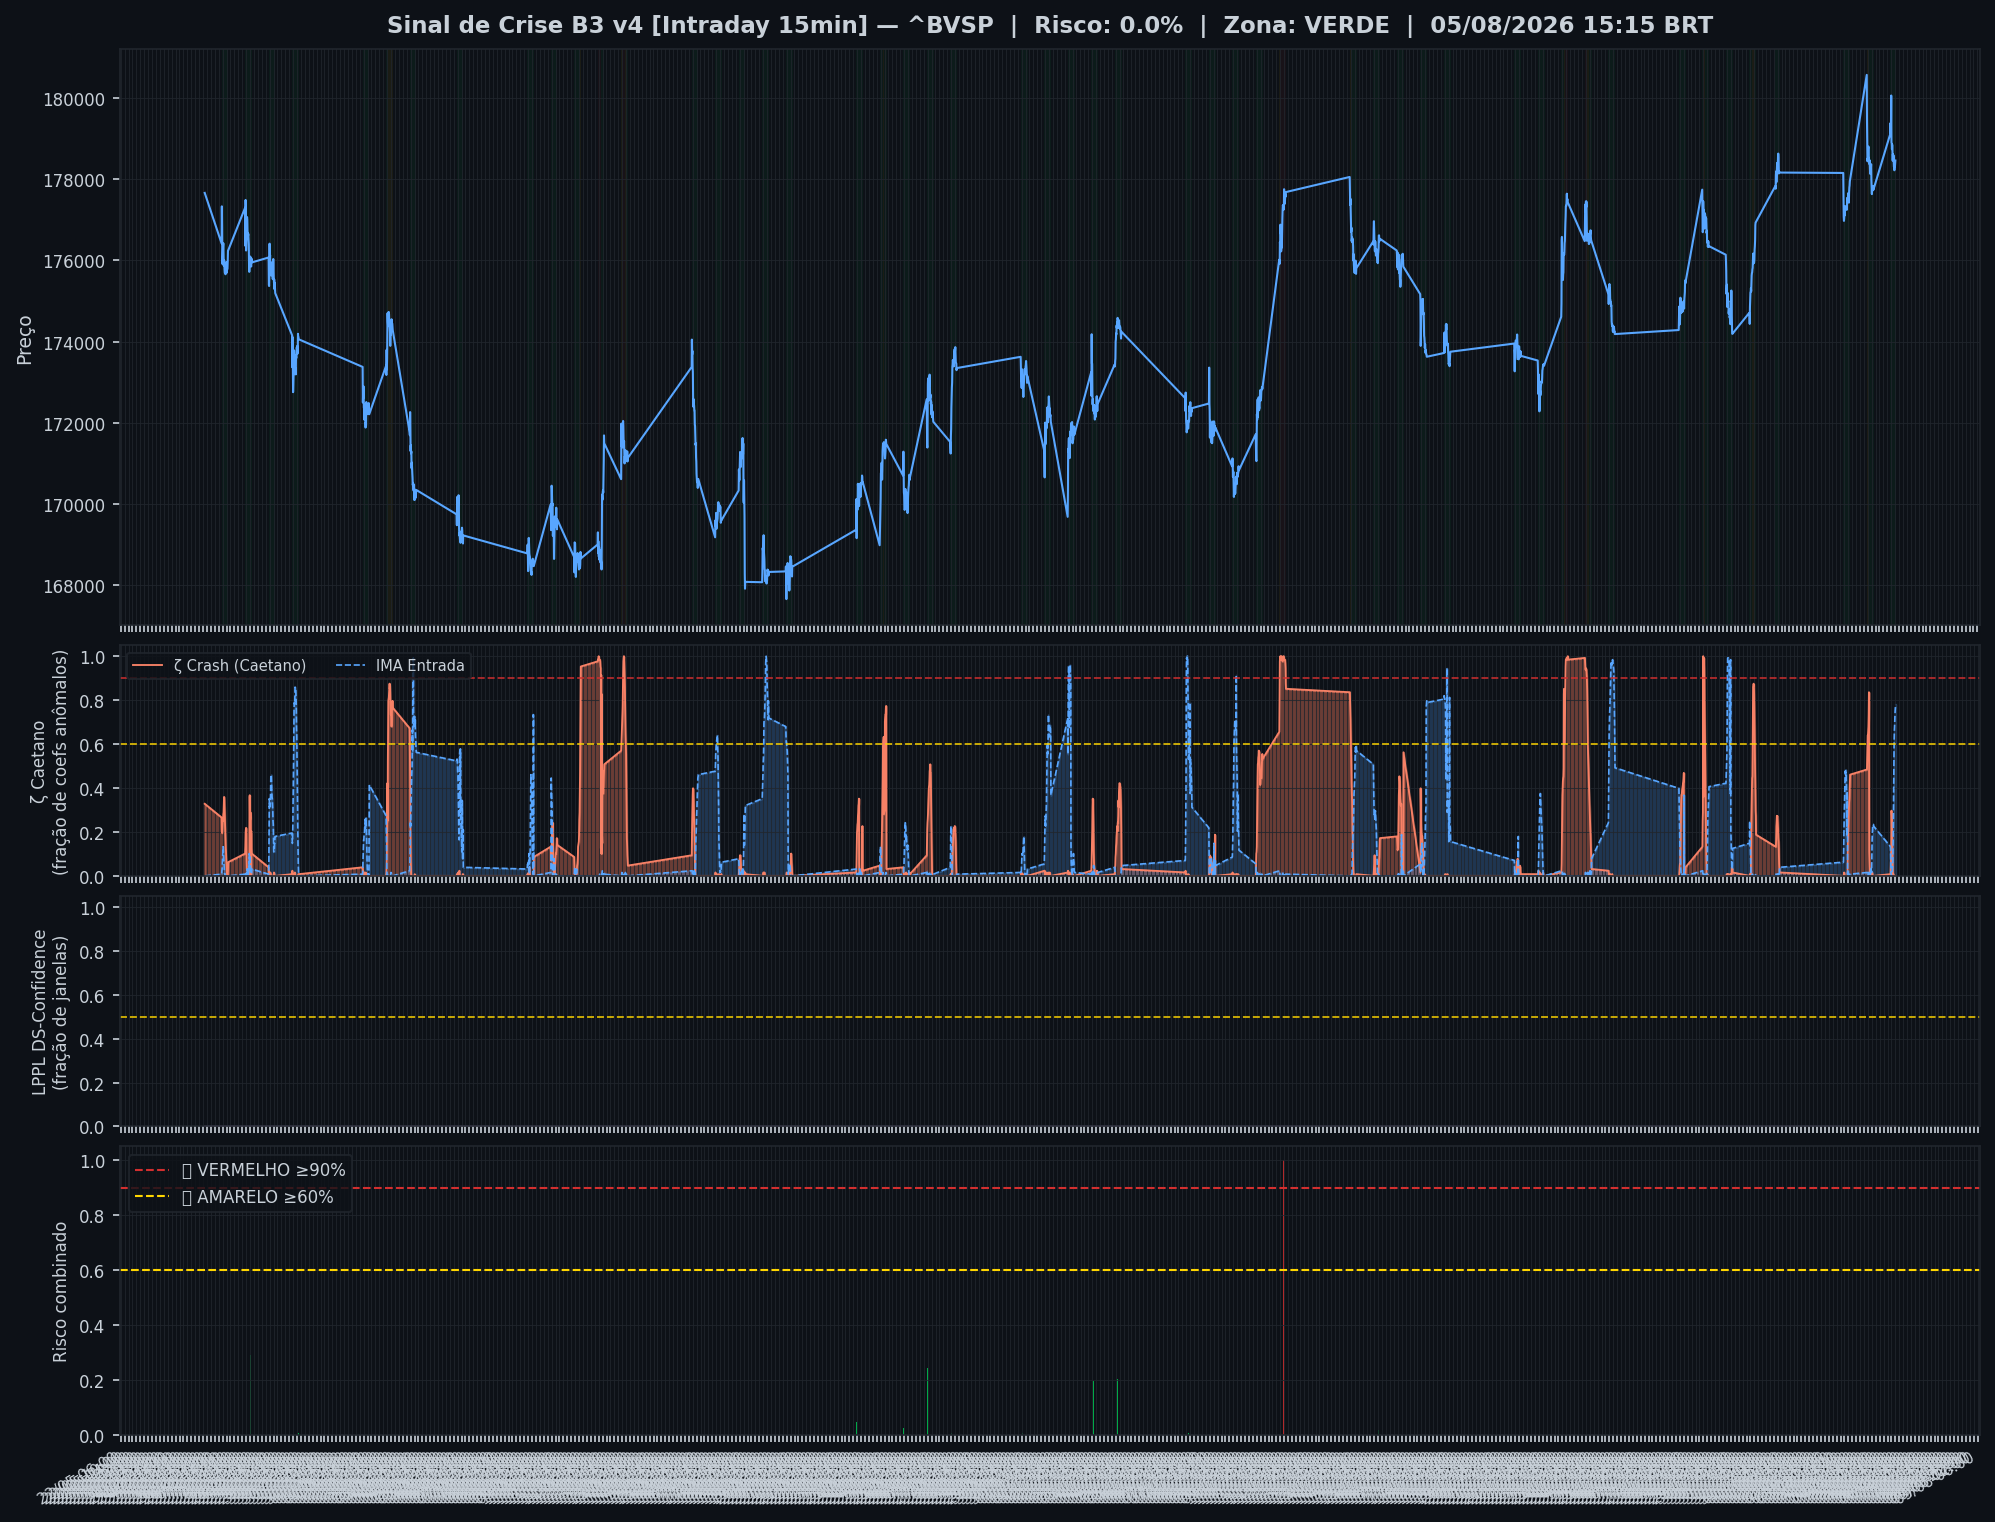
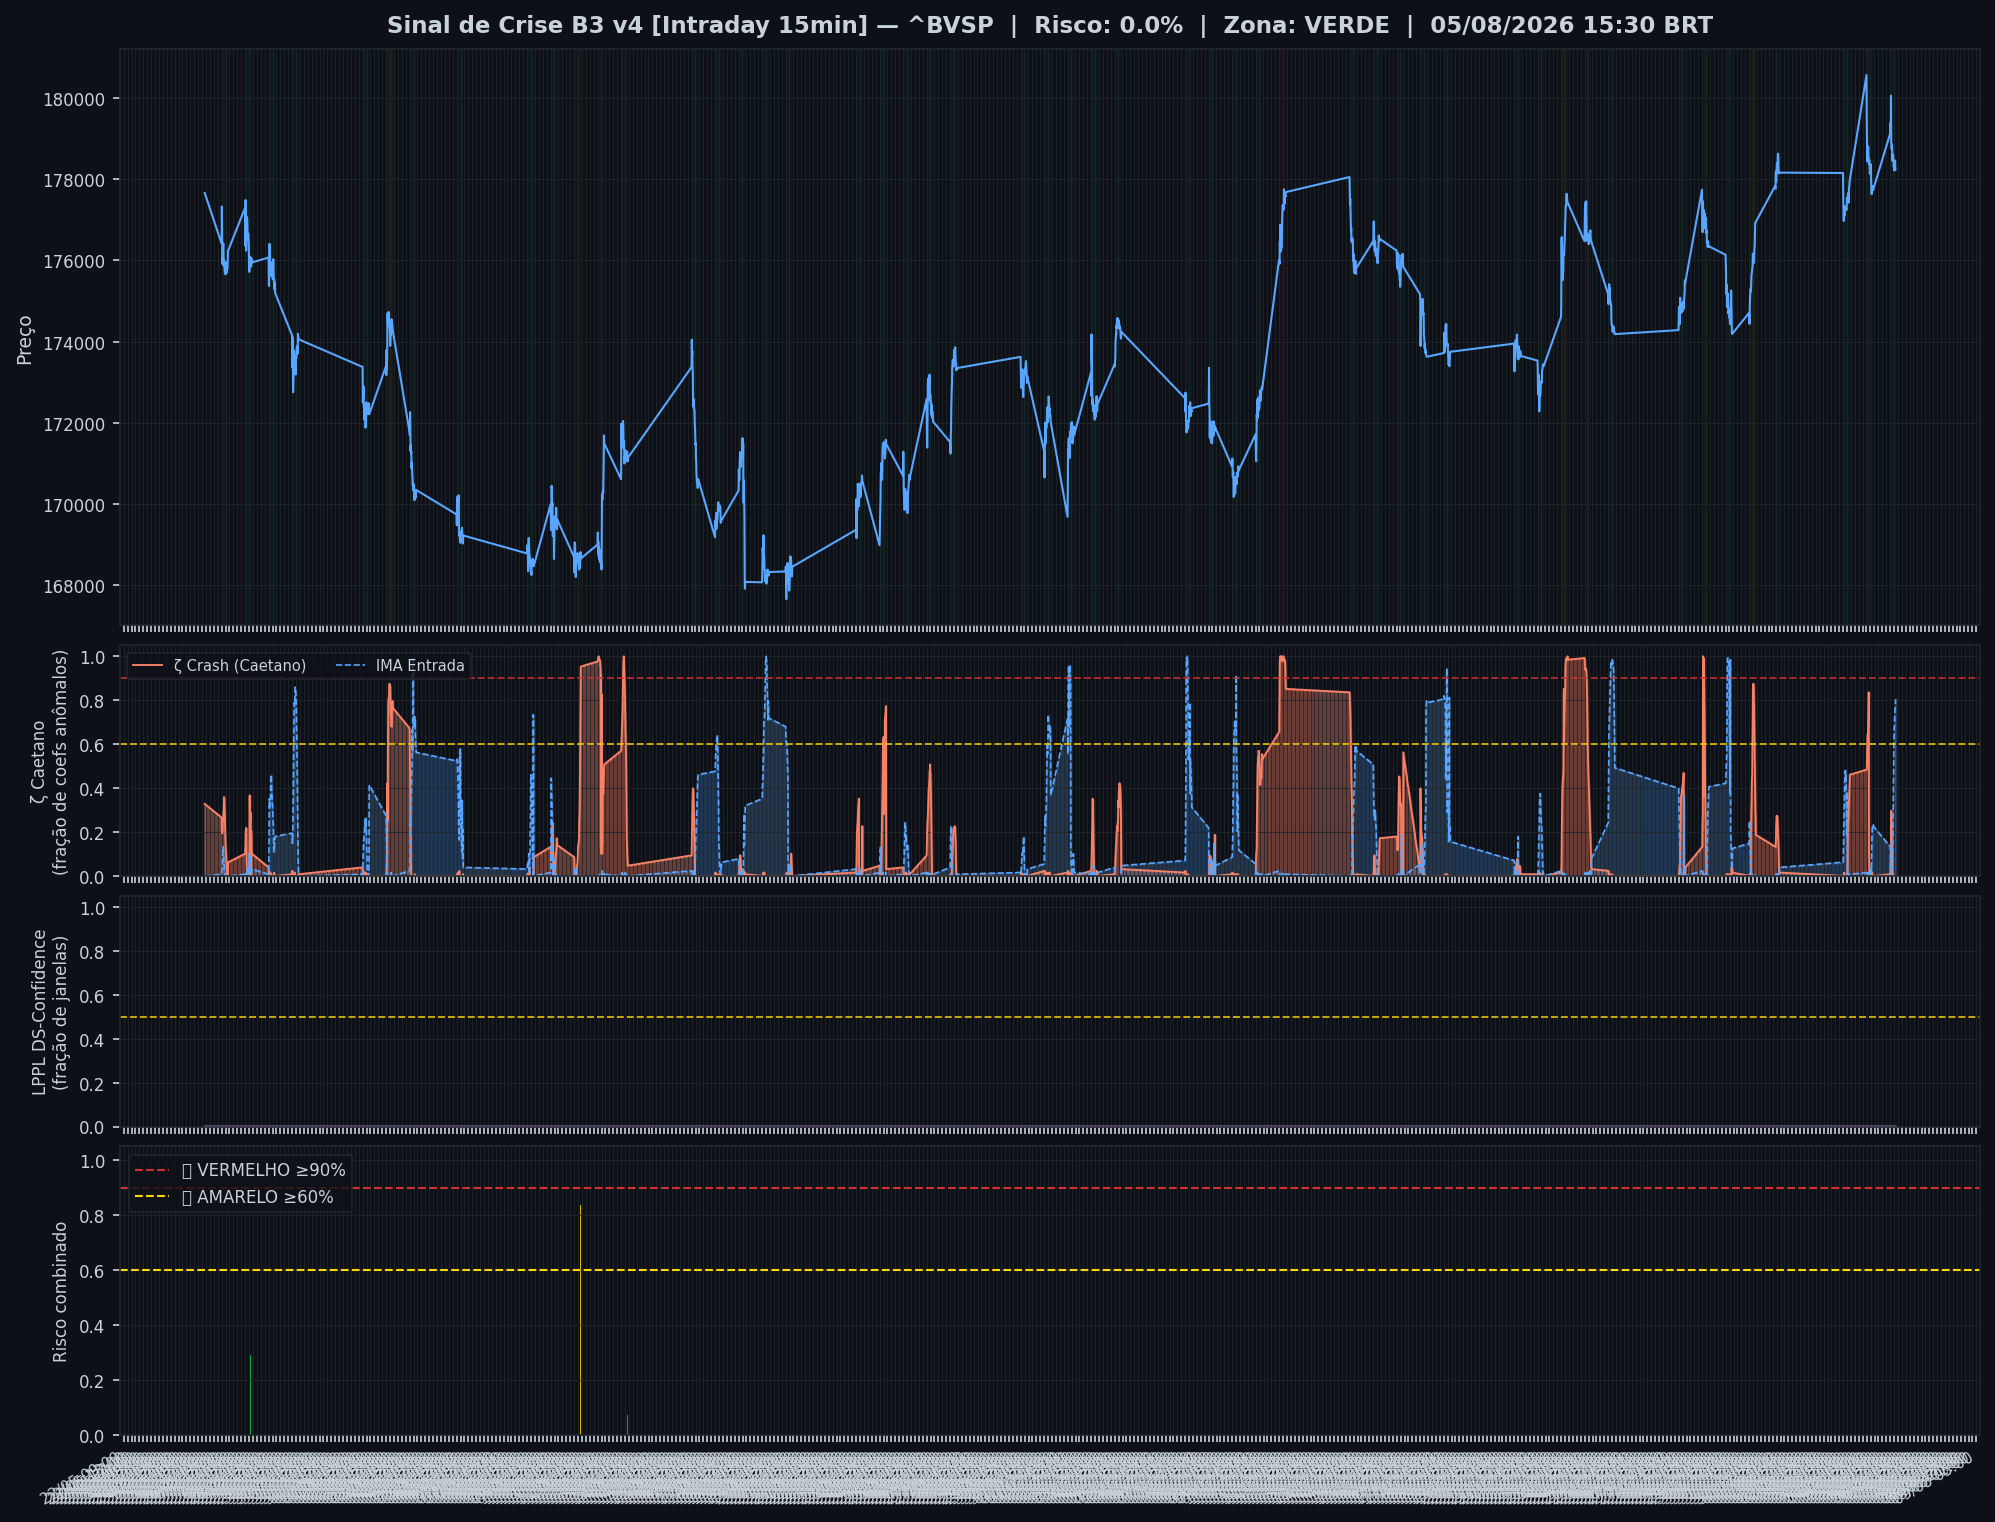
🤖 Auto: Sinal 05/08/2026 16:15

Changed region(s): [[0.0932, 0.4323, 0.9634, 0.5867], [0.0311, 0.9264, 0.9945, 0.9882], [0.9323, 0.4014, 0.9634, 0.4323]]

diff --git a/content/intraday/2026-08-05.md b/content/intraday/2026-08-05.md
@@ -1,5 +1,5 @@
 ---
-title: "🟢 Intraday 05/08/2026 15:15 BRT — VERDE"
+title: "🟢 Intraday 05/08/2026 15:30 BRT — VERDE"
 date: 2026-08-05
 tags: [intraday]
 ---
@@ -12,9 +12,9 @@ tags: [intraday]
 | Indicador | Valor |
 |---|---|
 | 🔴 ζ Crash — severidade da queda em curso | **0%** |
-| 🔵 ζ Entrada — estrutura de fundo | 78% |
+| 🔵 ζ Entrada — estrutura de fundo | 80% |
 | 🫧 LPPL DS-Confidence | 0% |
-| 📊 Ibovespa | 178.457 pts |
+| 📊 Ibovespa | 178.224 pts |
 
 ![Gráfico do sinal](../graficos/sinal_intraday.png)
 
@@ -22,6 +22,7 @@ tags: [intraday]
 
 | Data | Zona | Risco | IMA Crash | Entrada | LPPL |
 |---|---|---|---|---|---|
+| 2026-08-05 15:30 | 🟢 VERDE | **0%** | 0% | 80% | 0% |
 | 2026-08-05 15:15 | 🟢 VERDE | **0%** | 0% | 78% | 0% |
 | 2026-08-05 15:00 | 🟢 VERDE | **0%** | 0% | 77% | 0% |
 | 2026-08-05 14:45 | 🟢 VERDE | **0%** | 0% | 75% | 0% |
@@ -51,7 +52,6 @@ tags: [intraday]
 | 2026-08-04 15:45 | 🟢 VERDE | **0%** | 0% | 23% | 0% |
 | 2026-08-04 15:30 | 🟢 VERDE | **1%** | 1% | 20% | 0% |
 | 2026-08-04 15:15 | 🟢 VERDE | **2%** | 2% | 16% | 0% |
-| 2026-08-04 15:00 | 🟢 VERDE | **1%** | 1% | 10% | 0% |
 
 ## Monitor Multi-Ativo
 
@@ -70,26 +70,26 @@ tags: [intraday]
 | 🟢 | **B3** | Financeiro | 0.0% | 50.8% |
 | 🟢 | **WEG** | Industrial | 0.0% | 50.8% |
 | 🟢 | **AMBEV S/A** | Consumo | 0.0% | 50.8% |
-| 🟢 | **BTGP BANCO** | Financeiro | 0.0% | 53.1% |
+| 🟢 | **BTGP BANCO** | Financeiro | 0.0% | 50.8% |
 | 🟢 | **EMBRAER** | Outros | 0.0% | 50.8% |
 | 🟢 | **BRASIL** | Financeiro | 0.0% | 50.8% |
 | 🟢 | **ENEVA** | Energia | 0.0% | 50.8% |
 | 🟢 | **EQUATORIAL** | Energia | 0.0% | 50.8% |
-| 🟢 | **COPEL** | Energia | 0.0% | 53.1% |
+| 🟢 | **COPEL** | Energia | 0.0% | 50.8% |
 | 🟢 | **PRIO** | Petróleo | 0.0% | 50.8% |
 | 🟢 | **VIBRA** | Energia | 0.0% | 50.8% |
 | 🟢 | **LOCALIZA** | Aluguel | 0.0% | 50.8% |
 | 🟢 | **REDE D OR** | Saúde | 0.0% | 50.8% |
 | 🟢 | **ULTRAPAR** | Outros | 0.0% | 50.8% |
 | 🟢 | **GERDAU** | Siderurgia | 0.0% | 50.8% |
-| 🟢 | **SUZANO S.A.** | Papel/Celulose | 0.0% | 53.1% |
+| 🟢 | **SUZANO S.A.** | Papel/Celulose | 0.0% | 50.8% |
 | 🟢 | **BBSEGURIDADE** | Financeiro | 0.0% | 50.8% |
 | 🟢 | **RAIADROGASIL** | Outros | 0.0% | 50.8% |
 | 🟢 | **USD/BRL** | Câmbio | 0.0% | 50.8% |
 
 ![Monitor multi-ativo](../graficos/multi_intraday.png)
 
-*Página atualizada em 05/08/2026 16:01 BRT (leitura da barra de 2026-08-05 15:15 BRT).*
+*Página atualizada em 05/08/2026 16:15 BRT (leitura da barra de 2026-08-05 15:30 BRT).*
 
 > [!info]- Como interpretar (clique para expandir)
 > - **ζ Crash**: fração dos coeficientes wavelet acima do corte (Caetano & Yoneyama 2009). Escala absoluta: ζ=0,90 = 90% dos coeficientes anômalos — historicamente, quedas com ζ≥0,90 foram mais fundas e mais longas. **Mede a severidade do movimento em curso, não prevê o início da queda.**

diff --git a/content/index.md b/content/index.md
@@ -8,7 +8,7 @@ tags: [home]
 
 Monitoramento diário e intraday do Ibovespa — **IMA Wavelet** (Prof. Marco Antonio Leonel Caetano, ITA/INSPER) + **LPPL DS-Confidence** (Prof. Didier Sornette, ETH-Zurich).
 
-*Última atualização: 05/08/2026 16:01 BRT · ^BVSP · Intraday 15min · v4*
+*Última atualização: 05/08/2026 16:15 BRT · ^BVSP · Intraday 15min · v4*
 
 > [!success] 🟢 **VERDE** — Risco 0% · ＝ +0 p.p. vs leitura anterior
 > `░░░░░░░░░░░░░░░░░░░░`
@@ -18,9 +18,9 @@ Monitoramento diário e intraday do Ibovespa — **IMA Wavelet** (Prof. Marco An
 | Indicador | Valor |
 |---|---|
 | 🔴 ζ Crash — severidade da queda em curso | **0%** |
-| 🔵 ζ Entrada — estrutura de fundo | 78% |
+| 🔵 ζ Entrada — estrutura de fundo | 80% |
 | 🫧 LPPL DS-Confidence | 0% |
-| 📊 Ibovespa | 178.457 pts |
+| 📊 Ibovespa | 178.224 pts |
 
 **Multi-ativo:** 0% em tensão (0🔴 0🟡 de 27 ativos)
 

diff --git a/content/historico.md b/content/historico.md
@@ -7,6 +7,7 @@ tags: [historico]
 
 | Data | Modo | Zona | Risco | IMA | LPPL |
 |---|---|---|---|---|---|
+| 2026-08-05 15:30 | intraday | 🟢 VERDE | 0% | 0% | 0% |
 | 2026-08-05 15:15 | intraday | 🟢 VERDE | 0% | 0% | 0% |
 | 2026-08-05 15:00 | intraday | 🟢 VERDE | 0% | 0% | 0% |
 | 2026-08-05 14:45 | intraday | 🟢 VERDE | 0% | 0% | 0% |
